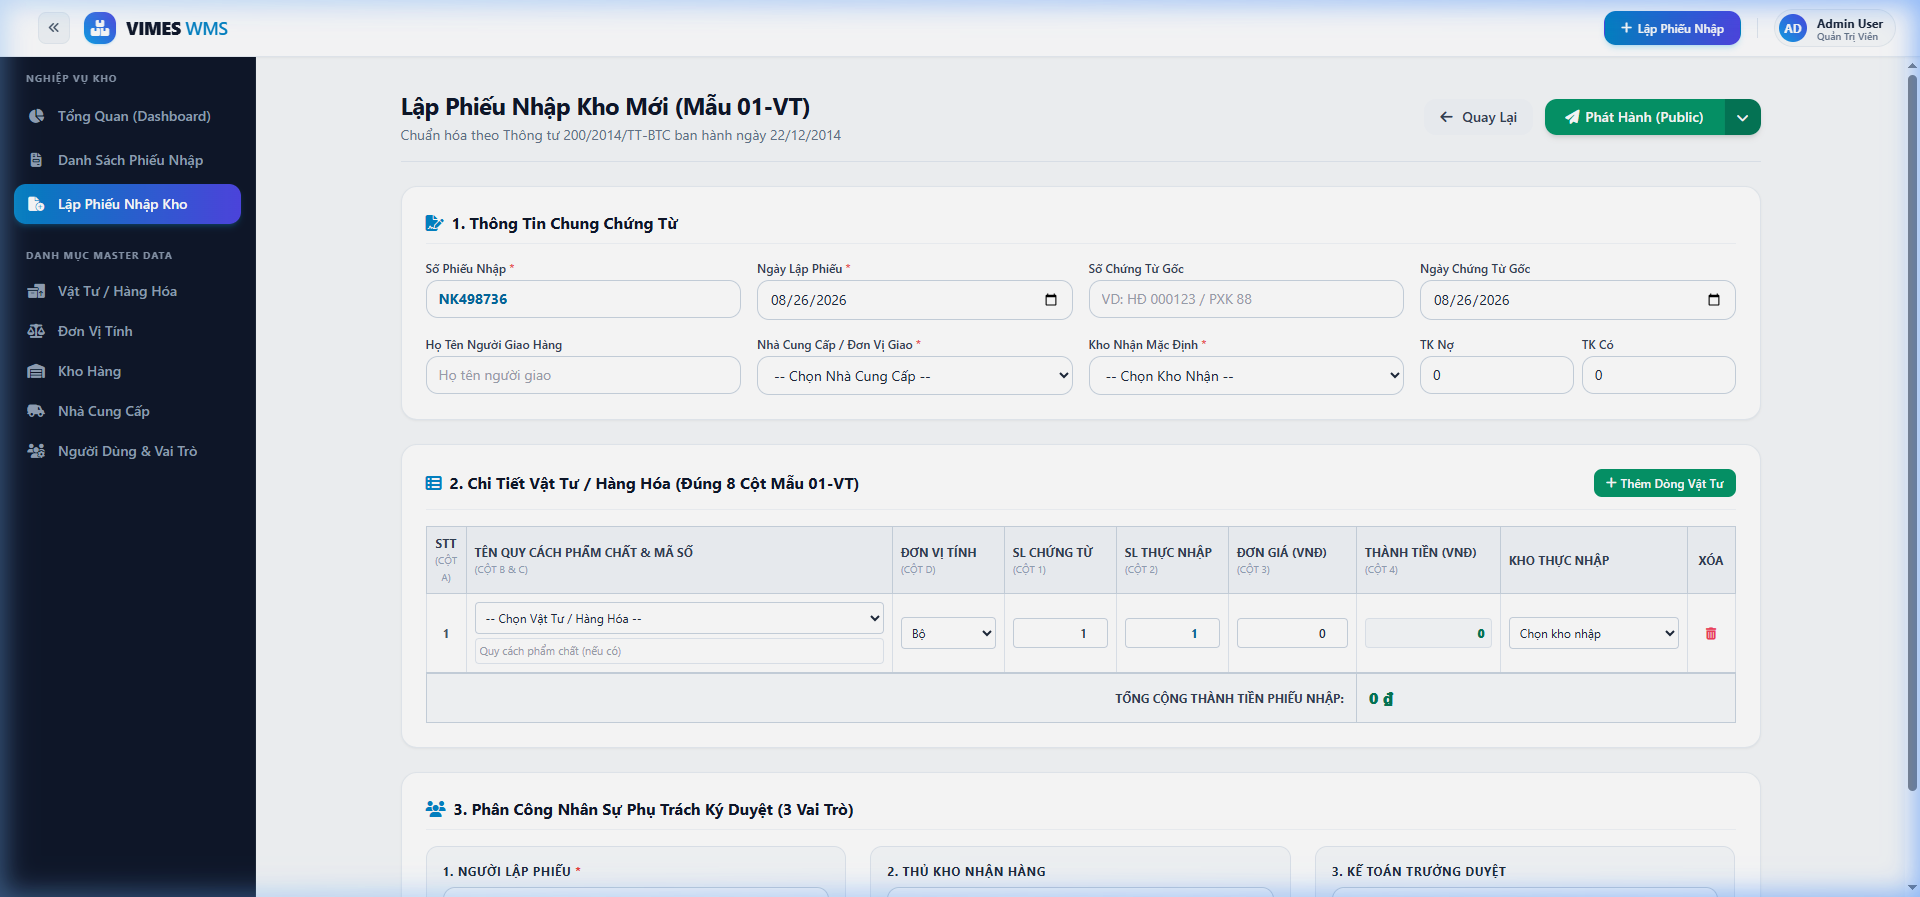
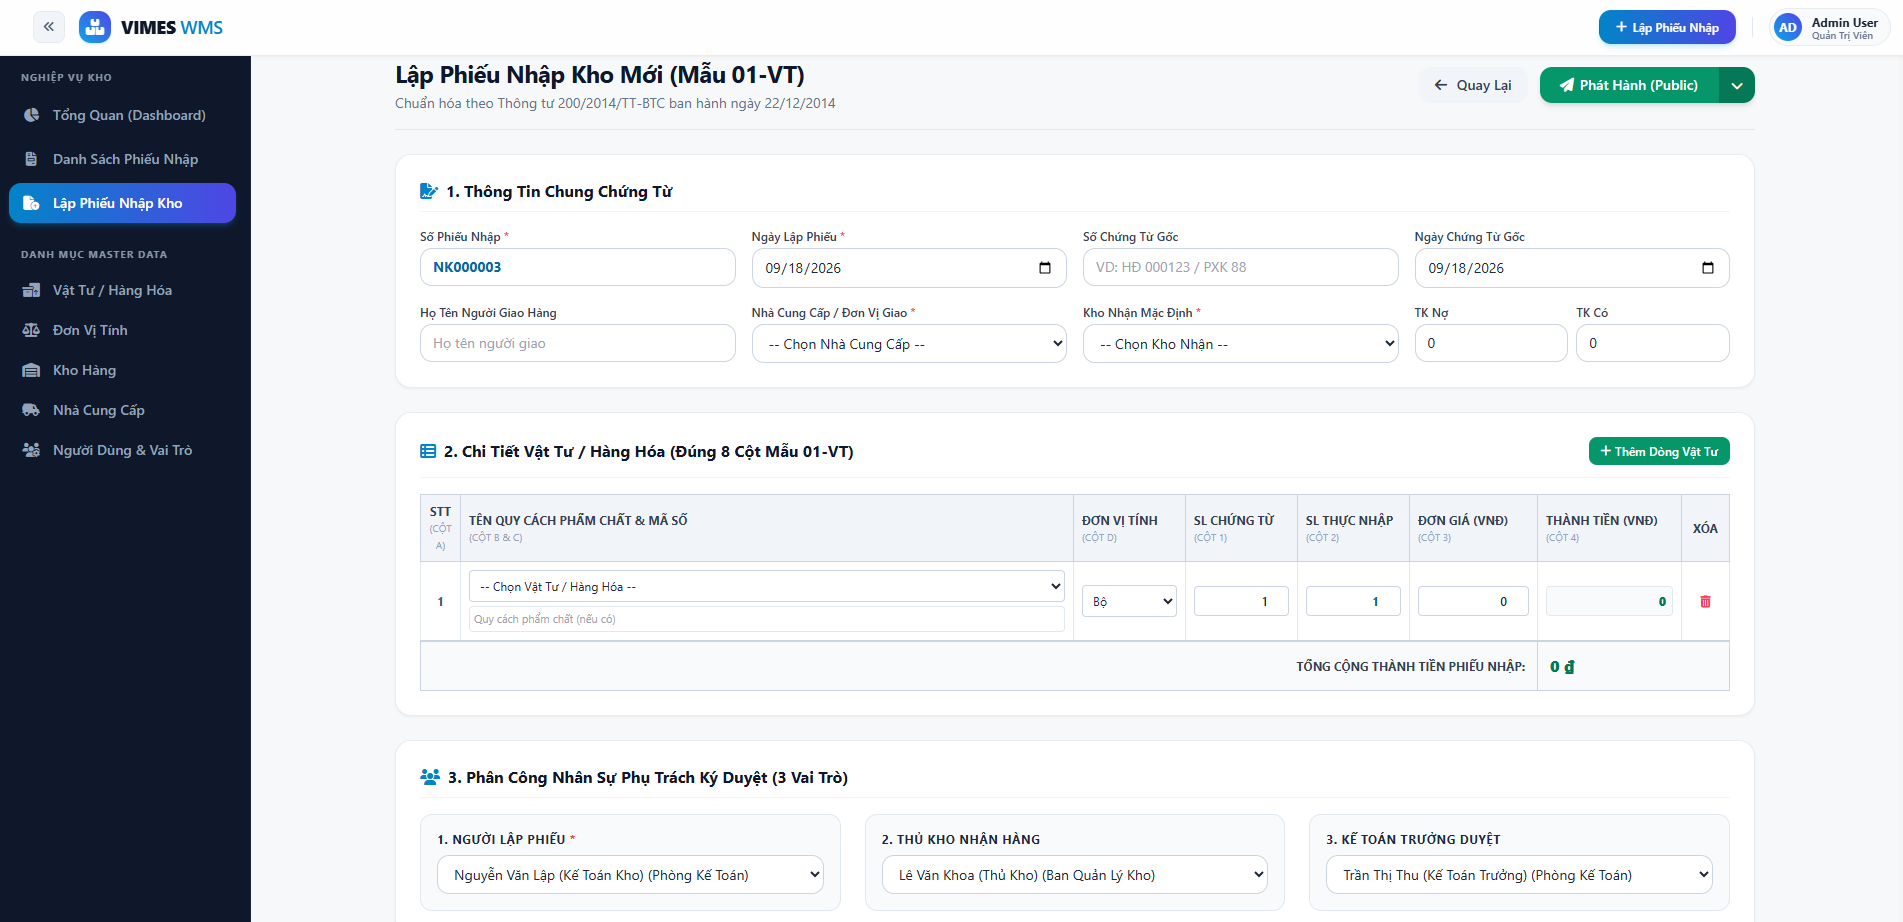
Remove redundant warehouse field from receipt details

diff --git a/src/public/js/receipt-form.js b/src/public/js/receipt-form.js
@@ -362,8 +362,6 @@ document.addEventListener("DOMContentLoaded", () => {
       rows.forEach((row) => {
         const itemId = row.querySelector(".item-select")?.value;
         const unitId = row.querySelector(".unit-select")?.value;
-        const rowWarehouseId =
-          row.querySelector(".row-warehouse-select")?.value || warehouseId;
         const docQty = parseFloat(
           row.querySelector(".doc-qty-input")?.value || 0,
         );
@@ -378,7 +376,6 @@ document.addEventListener("DOMContentLoaded", () => {
           details.push({
             item_id: itemId,
             unit_id: unitId,
-            warehouse_id: rowWarehouseId,
             document_quantity: docQty,
             actual_quantity: actualQty,
             unit_price: unitPrice,
@@ -414,7 +411,9 @@ document.addEventListener("DOMContentLoaded", () => {
 
       try {
         const receiptId = receiptForm.dataset.receiptId;
-        const submitUrl = receiptId ? `/receipts/${receiptId}/edit` : "/receipts/create";
+        const submitUrl = receiptId
+          ? `/receipts/${receiptId}/edit`
+          : "/receipts/create";
         const response = await fetch(submitUrl, {
           method: "POST",
           headers: {
@@ -427,7 +426,12 @@ document.addEventListener("DOMContentLoaded", () => {
 
         const result = await response.json();
         if (response.ok && result.success) {
-          showNotification("success", receiptId ? "Cập nhật phiếu nhập kho thành công!" : "Tạo phiếu nhập kho thành công!");
+          showNotification(
+            "success",
+            receiptId
+              ? "Cập nhật phiếu nhập kho thành công!"
+              : "Tạo phiếu nhập kho thành công!",
+          );
           setTimeout(() => {
             window.location.href = `/receipts/${result.data.id}`;
           }, 800);

diff --git a/src/modules/receipt/services/receipt.service.ts b/src/modules/receipt/services/receipt.service.ts
@@ -75,7 +75,6 @@ export class ReceiptService {
           include: [
             { model: Item, as: 'item' },
             { model: Unit, as: 'unit' },
-            { model: Warehouse, as: 'actual_warehouse' },
           ],
         },
       ],
@@ -114,7 +113,6 @@ export class ReceiptService {
           include: [
             { model: Item, as: 'item' },
             { model: Unit, as: 'unit' },
-            { model: Warehouse, as: 'actual_warehouse' },
           ],
         },
       ],
@@ -150,7 +148,7 @@ export class ReceiptService {
           return {
             item_id: item.item_id,
             unit_id: item.unit_id,
-            warehouse_id: item.warehouse_id || dto.warehouse_id || null,
+            warehouse_id: dto.warehouse_id || null,
             document_quantity: docQty,
             actual_quantity: actQty,
             unit_price: price,
@@ -226,7 +224,7 @@ export class ReceiptService {
               receipt_id: id,
               item_id: item.item_id,
               unit_id: item.unit_id,
-              warehouse_id: item.warehouse_id || dto.warehouse_id || receipt.warehouse_id || null,
+              warehouse_id: dto.warehouse_id || receipt.warehouse_id || null,
               document_quantity: docQty,
               actual_quantity: actQty,
               unit_price: price,
@@ -361,8 +359,6 @@ export class ReceiptService {
         specifications: det.item?.specifications || '',
         unit_id: det.unit_id,
         unit_name: det.unit?.name || '',
-        warehouse_id: det.warehouse_id,
-        warehouse_name: det.actual_warehouse?.name || plain.warehouse?.name || '',
         document_quantity: Number(det.document_quantity) || 0,
         actual_quantity: Number(det.actual_quantity) || 0,
         unit_price: Number(det.unit_price) || 0,

diff --git a/src/modules/receipt/models/receipt-detail.model.ts b/src/modules/receipt/models/receipt-detail.model.ts
@@ -6,7 +6,6 @@ export interface InventoryReceiptDetailAttributes {
   receipt_id: string;
   item_id: string;
   unit_id: string;
-  warehouse_id?: string;
   document_quantity: number;
   actual_quantity: number;
   unit_price: number;
@@ -14,7 +13,7 @@ export interface InventoryReceiptDetailAttributes {
 }
 
 export interface InventoryReceiptDetailCreationAttributes
-  extends Optional<InventoryReceiptDetailAttributes, 'id' | 'warehouse_id' | 'amount'> {}
+  extends Optional<InventoryReceiptDetailAttributes, 'id' | 'amount'> {}
 
 export class InventoryReceiptDetail
   extends Model<InventoryReceiptDetailAttributes, InventoryReceiptDetailCreationAttributes>
@@ -24,7 +23,6 @@ export class InventoryReceiptDetail
   declare receipt_id: string;
   declare item_id: string;
   declare unit_id: string;
-  declare warehouse_id: string;
   declare document_quantity: number;
   declare actual_quantity: number;
   declare unit_price: number;
@@ -64,15 +62,6 @@ InventoryReceiptDetail.init(
           msg: 'Đơn vị tính không được để trống.',
         },
       },
-    },
-    warehouse_id: {
-      type: DataTypes.UUID,
-      allowNull: false,
-      validate: {
-        notNull: {
-          msg: 'Kho không được để trống.',
-        },
-      } ,
     },
     document_quantity: {
       type: DataTypes.DECIMAL(12, 3),

diff --git a/src/models/index.ts b/src/models/index.ts
@@ -34,9 +34,6 @@ InventoryReceiptDetail.belongsTo(Item, { foreignKey: 'item_id', as: 'item' });
 Unit.hasMany(InventoryReceiptDetail, { foreignKey: 'unit_id', as: 'receipt_details' });
 InventoryReceiptDetail.belongsTo(Unit, { foreignKey: 'unit_id', as: 'unit' });
 
-Warehouse.hasMany(InventoryReceiptDetail, { foreignKey: 'warehouse_id', as: 'receipt_details' });
-InventoryReceiptDetail.belongsTo(Warehouse, { foreignKey: 'warehouse_id', as: 'actual_warehouse' });
-
 export {
   Unit,
   Warehouse,

diff --git a/src/modules/receipt/dtos/receipt.dto.ts b/src/modules/receipt/dtos/receipt.dto.ts
@@ -13,8 +13,6 @@ export interface InventoryReceiptDetailDto {
   specifications?: string;
   unit_id: string;
   unit_name?: string;
-  warehouse_id?: string;
-  warehouse_name?: string;
   document_quantity: number;
   actual_quantity: number;
   unit_price: number;
@@ -63,7 +61,6 @@ export interface CreateReceiptDto {
   details: {
     item_id: string;
     unit_id: string;
-    warehouse_id?: string;
     document_quantity: number;
     actual_quantity: number;
     unit_price: number;

diff --git a/database/migrations/20260825151500-create-inventory-receipt-details-table.js b/database/migrations/20260825151500-create-inventory-receipt-details-table.js
@@ -40,16 +40,6 @@ module.exports = {
         onUpdate: "CASCADE",
         onDelete: "RESTRICT",
       },
-      warehouse_id: {
-        type: Sequelize.UUID,
-        allowNull: true,
-        references: {
-          model: "warehouses",
-          key: "id",
-        },
-        onUpdate: "CASCADE",
-        onDelete: "SET NULL",
-      },
       document_quantity: {
         type: Sequelize.DECIMAL(12, 3),
         allowNull: false,

diff --git a/README.md b/README.md
@@ -12,9 +12,9 @@ Dự án được phát triển theo kiến trúc **Layered Architecture (Servic
 
 ### 🎯 Mục Tiêu Nghiệp Vụ & Đặc Điểm Cốt Lõi:
 
-- **Chuẩn Hóa Chứng Từ Mẫu 01-VT**: Tự động hóa quy trình lập, quản lý và in ấn phiếu nhập kho chuẩn 8 cột (STT, Mã & Tên vật tư, Đơn vị tính, Số lượng theo chứng từ, Số lượng thực nhập, Đơn giá, Thành tiền) kết hợp bộ 3 chữ ký trách nhiệm bắt buộc (*Người lập phiếu*, *Thủ kho*, *Kế toán trưởng*).
+- **Chuẩn Hóa Chứng Từ Mẫu 01-VT**: Tự động hóa quy trình lập, quản lý và in ấn phiếu nhập kho chuẩn 8 cột (STT, Mã & Tên vật tư, Đơn vị tính, Số lượng theo chứng từ, Số lượng thực nhập, Đơn giá, Thành tiền) kết hợp bộ 3 chữ ký trách nhiệm bắt buộc (_Người lập phiếu_, _Thủ kho_, _Kế toán trưởng_).
 - **Quản Lý Danh Mục Master Data Tối Ưu (`/admin/*`)**: Chuẩn hóa toàn bộ hệ thống danh mục quản trị (Đơn vị tính, Kho hàng, Nhà cung cấp, Vật tư/Hàng hóa, Người dùng) về namespace `/admin/*` với tính năng lọc từ khóa & phân trang Server-side linh hoạt.
-- **Mô Hình Phân Quyền Nhân Sự Đa Kho (Multi-Warehouse Roles)**: Phân quyền linh hoạt 3 vai trò nhân sự chuyên biệt (*Người lập phiếu*, *Thủ kho*, *Kế toán trưởng*), hỗ trợ thao tác, ký duyệt chứng từ và quản lý dữ liệu linh hoạt trên nhiều nhà kho khác nhau.
+- **Mô Hình Phân Quyền Nhân Sự Đa Kho (Multi-Warehouse Roles)**: Phân quyền linh hoạt 3 vai trò nhân sự chuyên biệt (_Người lập phiếu_, _Thủ kho_, _Kế toán trưởng_), hỗ trợ thao tác, ký duyệt chứng từ và quản lý dữ liệu linh hoạt trên nhiều nhà kho khác nhau.
 - **Bảo Đảm Chất Lượng Bằng Automation Testing (Jest & QA Excel)**: Hệ thống được tích hợp bộ **38/38 Automation Unit Tests** phủ 100% logic nghiệp vụ (Managed DB Transaction Rollback, tự tính tổng tiền, sinh mã phiếu `NK000001`, chặn xóa phiếu `PUBLIC`) và tính năng tự động xuất báo cáo Kịch bản kiểm thử Excel chuyên nghiệp.
 - **Trải Nghiệm SSR Trực Quan & Hiện Đại**: Giao diện Server-Side Rendering (SSR) với EJS, TailwindCSS, hiệu ứng Glassmorphic, micro-animations và hiển thị tối ưu trên cả Desktop lẫn di động.
 
@@ -42,14 +42,14 @@ Dự án được phát triển theo kiến trúc **Layered Architecture (Servic
 
 ## 🛠 Công Nghệ Sử Dụng (Technology Stack)
 
-| Thành Phần               | Công Nghệ / Thư Viện    | Mô Tả                                                    |
-| :------------------------- | :-------------------------- | :--------------------------------------------------------- |
+| Thành Phần           | Công Nghệ / Thư Viện        | Mô Tả                                                |
+| :------------------- | :-------------------------- | :--------------------------------------------------- |
 | **Backend Core**     | Node.js (v18+) & TypeScript | Runtime & Ngôn ngữ lập trình type-safe chuyên nghiệp |
-| **Web Framework**    | Express.js (v5)             | RESTful API & Routing Engine                               |
+| **Web Framework**    | Express.js (v5)             | RESTful API & Routing Engine                         |
 | **Database & ORM**   | PostgreSQL & Sequelize ORM  | Hệ quản trị CSDL quan hệ & ORM chuẩn hóa 3NF         |
-| **Migration & Seed** | Sequelize-CLI               | Quản lý phiên bản CSDL, Migration và Data Seeding     |
-| **Templating UI**    | EJS (Embedded JavaScript)   | Server-Side Rendering (SSR) giao diện HTML động         |
-| **Styling & Icons**  | TailwindCSS & FontAwesome 6 | CSS Framework hiện đại & Icon SVG phong phú            |
+| **Migration & Seed** | Sequelize-CLI               | Quản lý phiên bản CSDL, Migration và Data Seeding    |
+| **Templating UI**    | EJS (Embedded JavaScript)   | Server-Side Rendering (SSR) giao diện HTML động      |
+| **Styling & Icons**  | TailwindCSS & FontAwesome 6 | CSS Framework hiện đại & Icon SVG phong phú          |
 
 ---
 
@@ -64,7 +64,7 @@ erDiagram
     users ||--o{ inventory_receipts : "lập_phiếu (created_by_id)"
     users ||--o{ inventory_receipts : "thủ_kho (keeper_id)"
     users ||--o{ inventory_receipts : "kế_toán_trưởng (accountant_id)"
-  
+
     inventory_receipts ||--|{ inventory_receipt_details : "chứa"
     items ||--o{ inventory_receipt_details : "chi_tiết"
 
@@ -117,6 +117,7 @@ erDiagram
         string debit_account
         string credit_account
         decimal total_amount
+        string status "DRAFT | PUBLIC | CANCEL"
         uuid created_by_id FK
         uuid keeper_id FK
         uuid accountant_id FK
@@ -125,10 +126,8 @@ erDiagram
     inventory_receipt_details {
         uuid id PK
         uuid receipt_id FK
-        int line_number
         uuid item_id FK
         uuid unit_id FK
-        uuid warehouse_id FK
         decimal document_quantity
         decimal actual_quantity
         decimal unit_price
@@ -226,18 +225,18 @@ npm run dev
 
 ## 📖 Các Lệnh Scripts Hỗ Trợ (Available NPM Scripts)
 
-| Lệnh Script             | Công Dụng                                                                      |
-| :----------------------- | :------------------------------------------------------------------------------- |
-| `npm run dev`          | Khởi chạy server ở chế độ Development với Hot-reload (`tsx watch`)      |
-| `npm run build`        | Biên dịch TypeScript sang mã JavaScript nguyên bản trong thư mục`dist/` |
-| `npm run start`        | Chạy sản phẩm đã biên dịch trong thư mục`dist/server.js`              |
-| `npm run migrate`      | Thực thi tất cả các file Migration khởi tạo bảng PostgreSQL               |
-| `npm run migrate:undo` | Rollback Migration gần nhất                                                    |
-| `npm run seed`         | Thực thi toàn bộ các file Seeder nạp dữ liệu mẫu                         |
-| `npm run seed:undo`    | Rollback Seeder gần nhất                                                       |
-| `npm test`             | Chạy toàn bộ 38 bài Unit Test kiểm thử logic hệ thống bằng Jest CLI           |
-| `npm run test:coverage`| Chạy Unit Test & Đo lường độ bao phủ code (Code Coverage Report HTML & Console)|
-| `npm run test:report`  | Chạy Unit Test & Tự động cập nhật trạng thái mới nhất vào `tests/project_test_cases.xlsx` |
+| Lệnh Script             | Công Dụng                                                                                 |
+| :---------------------- | :---------------------------------------------------------------------------------------- |
+| `npm run dev`           | Khởi chạy server ở chế độ Development với Hot-reload (`tsx watch`)                        |
+| `npm run build`         | Biên dịch TypeScript sang mã JavaScript nguyên bản trong thư mục`dist/`                   |
+| `npm run start`         | Chạy sản phẩm đã biên dịch trong thư mục`dist/server.js`                                  |
+| `npm run migrate`       | Thực thi tất cả các file Migration khởi tạo bảng PostgreSQL                               |
+| `npm run migrate:undo`  | Rollback Migration gần nhất                                                               |
+| `npm run seed`          | Thực thi toàn bộ các file Seeder nạp dữ liệu mẫu                                          |
+| `npm run seed:undo`     | Rollback Seeder gần nhất                                                                  |
+| `npm test`              | Chạy toàn bộ 38 bài Unit Test kiểm thử logic hệ thống bằng Jest CLI                       |
+| `npm run test:coverage` | Chạy Unit Test & Đo lường độ bao phủ code (Code Coverage Report HTML & Console)           |
+| `npm run test:report`   | Chạy Unit Test & Tự động cập nhật trạng thái mới nhất vào `tests/project_test_cases.xlsx` |
 
 ---
 
@@ -247,14 +246,14 @@ Hệ thống được trang bị bộ kiểm thử tự động **Full Coverage 
 
 ### 📊 Bảng Thống Kê Kịch Bản Kiểm Thử:
 
-| Module | Số Kịch Bản | Mã Test Case | Nội Dung Kiểm Thử Cốt Lõi |
-| :--- | :---: | :--- | :--- |
-| **1. Unit (Đơn vị tính)** | **10** | `TC_UNT_001` ➔ `TC_UNT_010` | Lọc từ khóa, Lấy chi tiết, ID rác, Tạo mới (In hoa code), Validate rỗng/trùng, Update & Delete ràng buộc khóa ngoại |
-| **2. Warehouse (Kho hàng)** | **6** | `TC_WHS_001` ➔ `TC_WHS_006` | Xem danh sách, Lọc địa chỉ, Tạo kho (In hoa mã code), Lỗi trùng mã kho, Update & Delete kho |
-| **3. Supplier (Nhà cung cấp)** | **4** | `TC_SUP_001` ➔ `TC_SUP_004` | Tạo mới (Mã số thuế, địa chỉ), Phân trang & Tìm kiếm, Danh sách Dropdown, Update & Delete full flow |
-| **4. Item (Vật tư / Hàng hóa)** | **4** | `TC_ITM_001` ➔ `TC_ITM_004` | Tạo vật tư liên kết Đơn vị tính, Chặn trùng mã vật tư, Phân trang quy cách, Update & Delete |
-| **5. User (Người dùng)** | **3** | `TC_USR_001` ➔ `TC_USR_003` | Tạo nhân viên phân vai trò (`creator`, `keeper`, `accountant`), Lọc theo Role Filter, Update & Delete User |
-| **6. Inventory Receipt (Phiếu nhập)** | **11** | `TC_RCT_001` ➔ `TC_RCT_011` | Tự sinh mã `NK000001`, Tự tính tổng tiền, Status `DRAFT`, Lỗi chi tiết rỗng, Chặn trùng vật tư, **Sequelize Managed Transaction Rollback**, Phân trang, Xem chi tiết Mẫu 01-VT, Edit phiếu, Phát hành `PUBLIC`, Chặn xóa phiếu `PUBLIC`, Xóa phiếu `DRAFT` |
+| Module                                | Số Kịch Bản | Mã Test Case                | Nội Dung Kiểm Thử Cốt Lõi                                                                                                                                                                                                                                  |
+| :------------------------------------ | :---------: | :-------------------------- | :--------------------------------------------------------------------------------------------------------------------------------------------------------------------------------------------------------------------------------------------------------- |
+| **1. Unit (Đơn vị tính)**             |   **10**    | `TC_UNT_001` ➔ `TC_UNT_010` | Lọc từ khóa, Lấy chi tiết, ID rác, Tạo mới (In hoa code), Validate rỗng/trùng, Update & Delete ràng buộc khóa ngoại                                                                                                                                        |
+| **2. Warehouse (Kho hàng)**           |    **6**    | `TC_WHS_001` ➔ `TC_WHS_006` | Xem danh sách, Lọc địa chỉ, Tạo kho (In hoa mã code), Lỗi trùng mã kho, Update & Delete kho                                                                                                                                                                |
+| **3. Supplier (Nhà cung cấp)**        |    **4**    | `TC_SUP_001` ➔ `TC_SUP_004` | Tạo mới (Mã số thuế, địa chỉ), Phân trang & Tìm kiếm, Danh sách Dropdown, Update & Delete full flow                                                                                                                                                        |
+| **4. Item (Vật tư / Hàng hóa)**       |    **4**    | `TC_ITM_001` ➔ `TC_ITM_004` | Tạo vật tư liên kết Đơn vị tính, Chặn trùng mã vật tư, Phân trang quy cách, Update & Delete                                                                                                                                                                |
+| **5. User (Người dùng)**              |    **3**    | `TC_USR_001` ➔ `TC_USR_003` | Tạo nhân viên phân vai trò (`creator`, `keeper`, `accountant`), Lọc theo Role Filter, Update & Delete User                                                                                                                                                 |
+| **6. Inventory Receipt (Phiếu nhập)** |   **11**    | `TC_RCT_001` ➔ `TC_RCT_011` | Tự sinh mã `NK000001`, Tự tính tổng tiền, Status `DRAFT`, Lỗi chi tiết rỗng, Chặn trùng vật tư, **Sequelize Managed Transaction Rollback**, Phân trang, Xem chi tiết Mẫu 01-VT, Edit phiếu, Phát hành `PUBLIC`, Chặn xóa phiếu `PUBLIC`, Xóa phiếu `DRAFT` |
 
 ### 🛠 Hướng Dẫn Chạy Kiểm Thử:
 
@@ -263,10 +262,12 @@ Hệ thống được trang bị bộ kiểm thử tự động **Full Coverage 
    npm test
    ```
 2. **Xem báo cáo độ bao phủ Code Coverage (HTML):**
+
    ```bash
    npm run test:coverage
    ```
-   *Báo cáo HTML sẽ được khởi tạo tại `coverage/lcov-report/index.html`.*
+
+   _Báo cáo HTML sẽ được khởi tạo tại `coverage/lcov-report/index.html`._
 
 3. **Chạy Test & Tự động đồng bộ báo cáo Excel (`tests/project_test_cases.xlsx`):**
    ```bash
